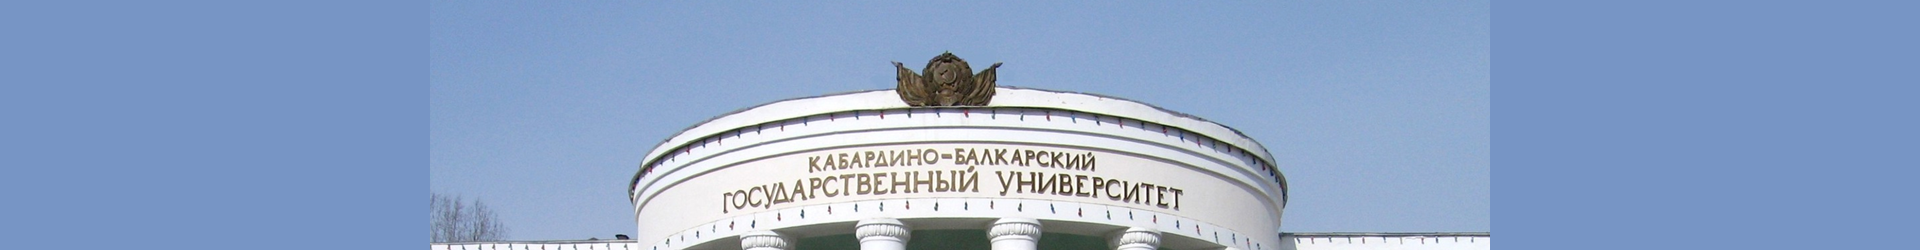
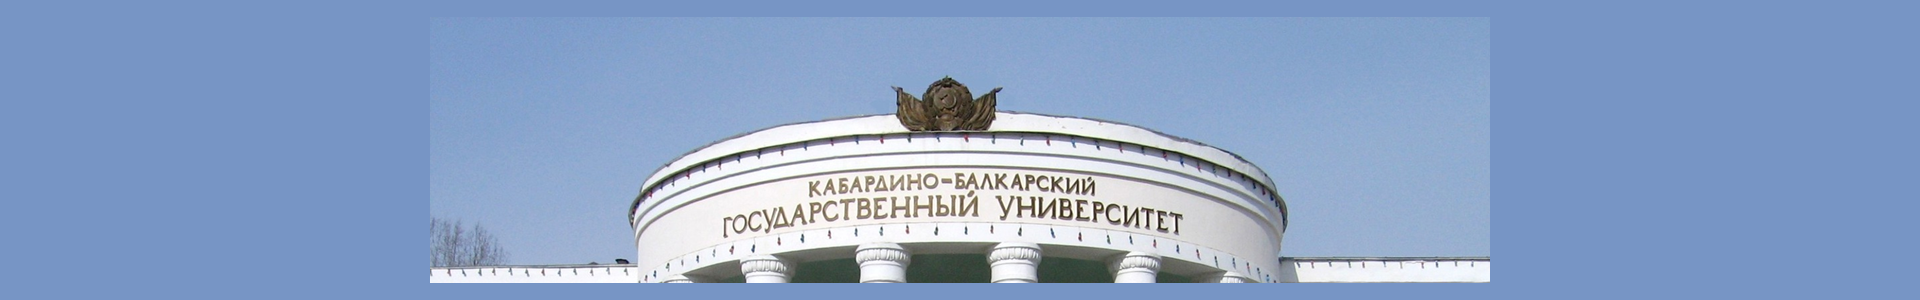
init10

Changed region(s): [[0.2188, 0.196, 0.7812, 1.0]]

diff --git a/проекты.html b/проекты.html
@@ -23,7 +23,12 @@
     <div class="art-shapes">
         <div class="art-object1623040845"></div>
 <div class="art-object1072346909"></div>
-
+<div class="art-textblock art-object1077306880">
+        <div class="art-object1077306880-text-container">
+        <div class="art-object1077306880-text"></div>
+    </div>
+    
+</div>
             </div>
 
 <h1 class="art-headline">
@@ -55,43 +60,50 @@
 <p><span style="font-size: 22px; color: #FEDCC2;">Проекты магистра 1 года обучения Шидугова&nbsp;Ислама.</span></p>
 <p><span style="font-size: 22px;">(-=1=-).&nbsp;Дальномер на Arduino UNO + HC-SR04 + TFT Display 1.8"</span></p>
 <div class="video-container">
- <span style="font-size: 22px;"><iframe width="560" height="315" src="https://www.youtube.com/embed/Qwj9HuhaCaI?wmode=transparent&amp;amp;wmode=transparent&amp;amp;wmode=transparent&amp;amp;wmode=transparent&amp;amp;wmode=transparent&amp;amp;wmode=transparent&amp;amp;wmode=transparent&amp;amp;wmode=transparent" frameborder="0" allow="accelerometer; autoplay; encrypted-media; gyroscope; picture-in-picture" allowfullscreen=""><span style="font-size: 22px;"><span style="font-size: 22px;">&amp;amp;lt;span style="font-size: 22px;"&amp;amp;gt;&amp;amp;lt;span style="font-size: 22px;"&amp;amp;gt;&amp;amp;lt;span style="font-size: 22px;"&amp;amp;gt;&amp;amp;amp;amp;amp;lt;span style="font-size: 22px;"&amp;amp;amp;amp;amp;gt;&amp;amp;amp;amp;amp;lt;span style="font-size: 22px;"&amp;amp;amp;amp;amp;gt;&amp;amp;amp;amp;amp;amp;amp;amp;lt;span style="font-size: 22px;"&amp;amp;amp;amp;amp;amp;amp;amp;gt;&amp;amp;amp;amp;amp;amp;amp;amp;amp;amp;amp;lt;span style="font-size: 22px;"&amp;amp;amp;amp;amp;amp;amp;amp;amp;amp;amp;gt;&amp;amp;amp;amp;amp;amp;amp;amp;amp;amp;amp;lt;span style="font-size: 22px;"&amp;amp;amp;amp;amp;amp;amp;amp;amp;amp;amp;gt;&amp;amp;amp;amp;amp;amp;amp;amp;amp;amp;amp;amp;amp;amp;lt;span style="font-size: 22px;"&amp;amp;amp;amp;amp;amp;amp;amp;amp;amp;amp;amp;amp;amp;gt;&amp;amp;amp;amp;amp;amp;amp;amp;amp;amp;amp;amp;amp;amp;lt;span style="font-size: 22px;"&amp;amp;amp;amp;amp;amp;amp;amp;amp;amp;amp;amp;amp;amp;gt;
-&amp;amp;amp;amp;amp;amp;amp;amp;amp;amp;amp;amp;amp;amp;lt;/span&amp;amp;amp;amp;amp;amp;amp;amp;amp;amp;amp;amp;amp;amp;gt;&amp;amp;amp;amp;amp;amp;amp;amp;amp;amp;amp;amp;amp;amp;lt;/span&amp;amp;amp;amp;amp;amp;amp;amp;amp;amp;amp;amp;amp;amp;gt;&amp;amp;amp;amp;amp;amp;amp;amp;amp;amp;amp;lt;/span&amp;amp;amp;amp;amp;amp;amp;amp;amp;amp;amp;gt;&amp;amp;amp;amp;amp;amp;amp;amp;amp;amp;amp;lt;/span&amp;amp;amp;amp;amp;amp;amp;amp;amp;amp;amp;gt;&amp;amp;amp;amp;amp;amp;amp;amp;lt;/span&amp;amp;amp;amp;amp;amp;amp;amp;gt;&amp;amp;amp;amp;amp;lt;/span&amp;amp;amp;amp;amp;gt;&amp;amp;amp;amp;amp;lt;/span&amp;amp;amp;amp;amp;gt;&amp;amp;lt;/span&amp;amp;gt;&amp;amp;lt;/span&amp;amp;gt;&amp;amp;lt;/span&amp;amp;gt;</span></span></iframe></span>
+ <span style="font-size: 22px;"><iframe width="560" height="315" src="https://www.youtube.com/embed/Qwj9HuhaCaI?wmode=transparent&amp;amp;wmode=transparent&amp;amp;wmode=transparent&amp;amp;wmode=transparent&amp;amp;wmode=transparent&amp;amp;wmode=transparent&amp;amp;wmode=transparent&amp;amp;wmode=transparent" frameborder="0" allow="accelerometer; autoplay; encrypted-media; gyroscope; picture-in-picture" allowfullscreen=""><span style="font-size: 22px;"><span style="font-size: 22px;"><span style="font-size: 22px;">&amp;amp;lt;span style="font-size: 22px;"&amp;amp;gt;&amp;amp;lt;span style="font-size: 22px;"&amp;amp;gt;&amp;amp;lt;span style="font-size: 22px;"&amp;amp;gt;&amp;amp;amp;amp;amp;lt;span style="font-size: 22px;"&amp;amp;amp;amp;amp;gt;&amp;amp;amp;amp;amp;lt;span style="font-size: 22px;"&amp;amp;amp;amp;amp;gt;&amp;amp;amp;amp;amp;amp;amp;amp;lt;span style="font-size: 22px;"&amp;amp;amp;amp;amp;amp;amp;amp;gt;&amp;amp;amp;amp;amp;amp;amp;amp;amp;amp;amp;lt;span style="font-size: 22px;"&amp;amp;amp;amp;amp;amp;amp;amp;amp;amp;amp;gt;&amp;amp;amp;amp;amp;amp;amp;amp;amp;amp;amp;lt;span style="font-size: 22px;"&amp;amp;amp;amp;amp;amp;amp;amp;amp;amp;amp;gt;&amp;amp;amp;amp;amp;amp;amp;amp;amp;amp;amp;amp;amp;amp;lt;span style="font-size: 22px;"&amp;amp;amp;amp;amp;amp;amp;amp;amp;amp;amp;amp;amp;amp;gt;&amp;amp;amp;amp;amp;amp;amp;amp;amp;amp;amp;amp;amp;amp;lt;span style="font-size: 22px;"&amp;amp;amp;amp;amp;amp;amp;amp;amp;amp;amp;amp;amp;amp;gt;
+&amp;amp;amp;amp;amp;amp;amp;amp;amp;amp;amp;amp;amp;amp;lt;/span&amp;amp;amp;amp;amp;amp;amp;amp;amp;amp;amp;amp;amp;amp;gt;&amp;amp;amp;amp;amp;amp;amp;amp;amp;amp;amp;amp;amp;amp;lt;/span&amp;amp;amp;amp;amp;amp;amp;amp;amp;amp;amp;amp;amp;amp;gt;&amp;amp;amp;amp;amp;amp;amp;amp;amp;amp;amp;lt;/span&amp;amp;amp;amp;amp;amp;amp;amp;amp;amp;amp;gt;&amp;amp;amp;amp;amp;amp;amp;amp;amp;amp;amp;lt;/span&amp;amp;amp;amp;amp;amp;amp;amp;amp;amp;amp;gt;&amp;amp;amp;amp;amp;amp;amp;amp;lt;/span&amp;amp;amp;amp;amp;amp;amp;amp;gt;&amp;amp;amp;amp;amp;lt;/span&amp;amp;amp;amp;amp;gt;&amp;amp;amp;amp;amp;lt;/span&amp;amp;amp;amp;amp;gt;&amp;amp;lt;/span&amp;amp;gt;&amp;amp;lt;/span&amp;amp;gt;&amp;amp;lt;/span&amp;amp;gt;</span></span></span></iframe></span>
 </div>
 <p><span style="font-size: 22px;">(-=2=-).&nbsp;Управление двигателями Arduino через смартфон</span></p>
 <div class="video-container">
- <span style="font-size: 22px;"><iframe width="560" height="315" src="https://www.youtube.com/embed/QHzLbfqxxg4?wmode=transparent&amp;amp;wmode=transparent&amp;amp;wmode=transparent&amp;amp;wmode=transparent&amp;amp;wmode=transparent&amp;amp;wmode=transparent&amp;amp;wmode=transparent&amp;amp;wmode=transparent" frameborder="0" allow="accelerometer; autoplay; encrypted-media; gyroscope; picture-in-picture" allowfullscreen=""><span style="font-size: 22px;"><span style="font-size: 22px;">&amp;amp;lt;span style="font-size: 22px;"&amp;amp;gt;&amp;amp;lt;span style="font-size: 22px;"&amp;amp;gt;&amp;amp;lt;span style="font-size: 22px;"&amp;amp;gt;&amp;amp;amp;amp;amp;lt;span style="font-size: 22px;"&amp;amp;amp;amp;amp;gt;&amp;amp;amp;amp;amp;lt;span style="font-size: 22px;"&amp;amp;amp;amp;amp;gt;&amp;amp;amp;amp;amp;amp;amp;amp;lt;span style="font-size: 22px;"&amp;amp;amp;amp;amp;amp;amp;amp;gt;&amp;amp;amp;amp;amp;amp;amp;amp;amp;amp;amp;lt;span style="font-size: 22px;"&amp;amp;amp;amp;amp;amp;amp;amp;amp;amp;amp;gt;&amp;amp;amp;amp;amp;amp;amp;amp;amp;amp;amp;lt;span style="font-size: 22px;"&amp;amp;amp;amp;amp;amp;amp;amp;amp;amp;amp;gt;&amp;amp;amp;amp;amp;amp;amp;amp;amp;amp;amp;amp;amp;amp;lt;span style="font-size: 22px;"&amp;amp;amp;amp;amp;amp;amp;amp;amp;amp;amp;amp;amp;amp;gt;&amp;amp;amp;amp;amp;amp;amp;amp;amp;amp;amp;amp;amp;amp;lt;span style="font-size: 22px;"&amp;amp;amp;amp;amp;amp;amp;amp;amp;amp;amp;amp;amp;amp;gt;
-&amp;amp;amp;amp;amp;amp;amp;amp;amp;amp;amp;amp;amp;amp;lt;/span&amp;amp;amp;amp;amp;amp;amp;amp;amp;amp;amp;amp;amp;amp;gt;&amp;amp;amp;amp;amp;amp;amp;amp;amp;amp;amp;amp;amp;amp;lt;/span&amp;amp;amp;amp;amp;amp;amp;amp;amp;amp;amp;amp;amp;amp;gt;&amp;amp;amp;amp;amp;amp;amp;amp;amp;amp;amp;lt;/span&amp;amp;amp;amp;amp;amp;amp;amp;amp;amp;amp;gt;&amp;amp;amp;amp;amp;amp;amp;amp;amp;amp;amp;lt;/span&amp;amp;amp;amp;amp;amp;amp;amp;amp;amp;amp;gt;&amp;amp;amp;amp;amp;amp;amp;amp;lt;/span&amp;amp;amp;amp;amp;amp;amp;amp;gt;&amp;amp;amp;amp;amp;lt;/span&amp;amp;amp;amp;amp;gt;&amp;amp;amp;amp;amp;lt;/span&amp;amp;amp;amp;amp;gt;&amp;amp;lt;/span&amp;amp;gt;&amp;amp;lt;/span&amp;amp;gt;&amp;amp;lt;/span&amp;amp;gt;</span></span></iframe></span>
+ <span style="font-size: 22px;"><iframe width="560" height="315" src="https://www.youtube.com/embed/QHzLbfqxxg4?wmode=transparent&amp;amp;wmode=transparent&amp;amp;wmode=transparent&amp;amp;wmode=transparent&amp;amp;wmode=transparent&amp;amp;wmode=transparent&amp;amp;wmode=transparent&amp;amp;wmode=transparent" frameborder="0" allow="accelerometer; autoplay; encrypted-media; gyroscope; picture-in-picture" allowfullscreen=""><span style="font-size: 22px;"><span style="font-size: 22px;"><span style="font-size: 22px;">&amp;amp;lt;span style="font-size: 22px;"&amp;amp;gt;&amp;amp;lt;span style="font-size: 22px;"&amp;amp;gt;&amp;amp;lt;span style="font-size: 22px;"&amp;amp;gt;&amp;amp;amp;amp;amp;lt;span style="font-size: 22px;"&amp;amp;amp;amp;amp;gt;&amp;amp;amp;amp;amp;lt;span style="font-size: 22px;"&amp;amp;amp;amp;amp;gt;&amp;amp;amp;amp;amp;amp;amp;amp;lt;span style="font-size: 22px;"&amp;amp;amp;amp;amp;amp;amp;amp;gt;&amp;amp;amp;amp;amp;amp;amp;amp;amp;amp;amp;lt;span style="font-size: 22px;"&amp;amp;amp;amp;amp;amp;amp;amp;amp;amp;amp;gt;&amp;amp;amp;amp;amp;amp;amp;amp;amp;amp;amp;lt;span style="font-size: 22px;"&amp;amp;amp;amp;amp;amp;amp;amp;amp;amp;amp;gt;&amp;amp;amp;amp;amp;amp;amp;amp;amp;amp;amp;amp;amp;amp;lt;span style="font-size: 22px;"&amp;amp;amp;amp;amp;amp;amp;amp;amp;amp;amp;amp;amp;amp;gt;&amp;amp;amp;amp;amp;amp;amp;amp;amp;amp;amp;amp;amp;amp;lt;span style="font-size: 22px;"&amp;amp;amp;amp;amp;amp;amp;amp;amp;amp;amp;amp;amp;amp;gt;
+&amp;amp;amp;amp;amp;amp;amp;amp;amp;amp;amp;amp;amp;amp;lt;/span&amp;amp;amp;amp;amp;amp;amp;amp;amp;amp;amp;amp;amp;amp;gt;&amp;amp;amp;amp;amp;amp;amp;amp;amp;amp;amp;amp;amp;amp;lt;/span&amp;amp;amp;amp;amp;amp;amp;amp;amp;amp;amp;amp;amp;amp;gt;&amp;amp;amp;amp;amp;amp;amp;amp;amp;amp;amp;lt;/span&amp;amp;amp;amp;amp;amp;amp;amp;amp;amp;amp;gt;&amp;amp;amp;amp;amp;amp;amp;amp;amp;amp;amp;lt;/span&amp;amp;amp;amp;amp;amp;amp;amp;amp;amp;amp;gt;&amp;amp;amp;amp;amp;amp;amp;amp;lt;/span&amp;amp;amp;amp;amp;amp;amp;amp;gt;&amp;amp;amp;amp;amp;lt;/span&amp;amp;amp;amp;amp;gt;&amp;amp;amp;amp;amp;lt;/span&amp;amp;amp;amp;amp;gt;&amp;amp;lt;/span&amp;amp;gt;&amp;amp;lt;/span&amp;amp;gt;&amp;amp;lt;/span&amp;amp;gt;</span></span></span></iframe></span>
 </div>
 <p><span style="font-size: 22px;">(-=3=-).&nbsp;Балансирующий робот на Arduino</span></p>
 <div class="video-container">
- <span style="font-size: 22px;"><iframe width="560" height="315" src="https://www.youtube.com/embed/K0JYyKJkjf4?wmode=transparent&amp;amp;wmode=transparent&amp;amp;wmode=transparent&amp;amp;wmode=transparent&amp;amp;wmode=transparent&amp;amp;wmode=transparent&amp;amp;wmode=transparent&amp;amp;wmode=transparent" frameborder="0" allow="accelerometer; autoplay; encrypted-media; gyroscope; picture-in-picture" allowfullscreen=""><span style="font-size: 22px;"><span style="font-size: 22px;">&amp;amp;lt;span style="font-size: 22px;"&amp;amp;gt;&amp;amp;lt;span style="font-size: 22px;"&amp;amp;gt;&amp;amp;lt;span style="font-size: 22px;"&amp;amp;gt;&amp;amp;amp;amp;amp;lt;span style="font-size: 22px;"&amp;amp;amp;amp;amp;gt;&amp;amp;amp;amp;amp;lt;span style="font-size: 22px;"&amp;amp;amp;amp;amp;gt;&amp;amp;amp;amp;amp;amp;amp;amp;lt;span style="font-size: 22px;"&amp;amp;amp;amp;amp;amp;amp;amp;gt;&amp;amp;amp;amp;amp;amp;amp;amp;amp;amp;amp;lt;span style="font-size: 22px;"&amp;amp;amp;amp;amp;amp;amp;amp;amp;amp;amp;gt;&amp;amp;amp;amp;amp;amp;amp;amp;amp;amp;amp;lt;span style="font-size: 22px;"&amp;amp;amp;amp;amp;amp;amp;amp;amp;amp;amp;gt;&amp;amp;amp;amp;amp;amp;amp;amp;amp;amp;amp;amp;amp;amp;lt;span style="font-size: 22px;"&amp;amp;amp;amp;amp;amp;amp;amp;amp;amp;amp;amp;amp;amp;gt;&amp;amp;amp;amp;amp;amp;amp;amp;amp;amp;amp;amp;amp;amp;lt;span style="font-size: 22px;"&amp;amp;amp;amp;amp;amp;amp;amp;amp;amp;amp;amp;amp;amp;gt;
-&amp;amp;amp;amp;amp;amp;amp;amp;amp;amp;amp;amp;amp;amp;lt;/span&amp;amp;amp;amp;amp;amp;amp;amp;amp;amp;amp;amp;amp;amp;gt;&amp;amp;amp;amp;amp;amp;amp;amp;amp;amp;amp;amp;amp;amp;lt;/span&amp;amp;amp;amp;amp;amp;amp;amp;amp;amp;amp;amp;amp;amp;gt;&amp;amp;amp;amp;amp;amp;amp;amp;amp;amp;amp;lt;/span&amp;amp;amp;amp;amp;amp;amp;amp;amp;amp;amp;gt;&amp;amp;amp;amp;amp;amp;amp;amp;amp;amp;amp;lt;/span&amp;amp;amp;amp;amp;amp;amp;amp;amp;amp;amp;gt;&amp;amp;amp;amp;amp;amp;amp;amp;lt;/span&amp;amp;amp;amp;amp;amp;amp;amp;gt;&amp;amp;amp;amp;amp;lt;/span&amp;amp;amp;amp;amp;gt;&amp;amp;amp;amp;amp;lt;/span&amp;amp;amp;amp;amp;gt;&amp;amp;lt;/span&amp;amp;gt;&amp;amp;lt;/span&amp;amp;gt;&amp;amp;lt;/span&amp;amp;gt;</span></span></iframe></span>
+ <span style="font-size: 22px;"><iframe width="560" height="315" src="https://www.youtube.com/embed/K0JYyKJkjf4?wmode=transparent&amp;amp;wmode=transparent&amp;amp;wmode=transparent&amp;amp;wmode=transparent&amp;amp;wmode=transparent&amp;amp;wmode=transparent&amp;amp;wmode=transparent&amp;amp;wmode=transparent" frameborder="0" allow="accelerometer; autoplay; encrypted-media; gyroscope; picture-in-picture" allowfullscreen=""><span style="font-size: 22px;"><span style="font-size: 22px;"><span style="font-size: 22px;">&amp;amp;lt;span style="font-size: 22px;"&amp;amp;gt;&amp;amp;lt;span style="font-size: 22px;"&amp;amp;gt;&amp;amp;lt;span style="font-size: 22px;"&amp;amp;gt;&amp;amp;amp;amp;amp;lt;span style="font-size: 22px;"&amp;amp;amp;amp;amp;gt;&amp;amp;amp;amp;amp;lt;span style="font-size: 22px;"&amp;amp;amp;amp;amp;gt;&amp;amp;amp;amp;amp;amp;amp;amp;lt;span style="font-size: 22px;"&amp;amp;amp;amp;amp;amp;amp;amp;gt;&amp;amp;amp;amp;amp;amp;amp;amp;amp;amp;amp;lt;span style="font-size: 22px;"&amp;amp;amp;amp;amp;amp;amp;amp;amp;amp;amp;gt;&amp;amp;amp;amp;amp;amp;amp;amp;amp;amp;amp;lt;span style="font-size: 22px;"&amp;amp;amp;amp;amp;amp;amp;amp;amp;amp;amp;gt;&amp;amp;amp;amp;amp;amp;amp;amp;amp;amp;amp;amp;amp;amp;lt;span style="font-size: 22px;"&amp;amp;amp;amp;amp;amp;amp;amp;amp;amp;amp;amp;amp;amp;gt;&amp;amp;amp;amp;amp;amp;amp;amp;amp;amp;amp;amp;amp;amp;lt;span style="font-size: 22px;"&amp;amp;amp;amp;amp;amp;amp;amp;amp;amp;amp;amp;amp;amp;gt;
+&amp;amp;amp;amp;amp;amp;amp;amp;amp;amp;amp;amp;amp;amp;lt;/span&amp;amp;amp;amp;amp;amp;amp;amp;amp;amp;amp;amp;amp;amp;gt;&amp;amp;amp;amp;amp;amp;amp;amp;amp;amp;amp;amp;amp;amp;lt;/span&amp;amp;amp;amp;amp;amp;amp;amp;amp;amp;amp;amp;amp;amp;gt;&amp;amp;amp;amp;amp;amp;amp;amp;amp;amp;amp;lt;/span&amp;amp;amp;amp;amp;amp;amp;amp;amp;amp;amp;gt;&amp;amp;amp;amp;amp;amp;amp;amp;amp;amp;amp;lt;/span&amp;amp;amp;amp;amp;amp;amp;amp;amp;amp;amp;gt;&amp;amp;amp;amp;amp;amp;amp;amp;lt;/span&amp;amp;amp;amp;amp;amp;amp;amp;gt;&amp;amp;amp;amp;amp;lt;/span&amp;amp;amp;amp;amp;gt;&amp;amp;amp;amp;amp;lt;/span&amp;amp;amp;amp;amp;gt;&amp;amp;lt;/span&amp;amp;gt;&amp;amp;lt;/span&amp;amp;gt;&amp;amp;lt;/span&amp;amp;gt;</span></span></span></iframe></span>
 </div>
 <p><span style="font-size: 22px;"><br></span></p>
 <p><span style="font-size: 22px; color: #FEDCC2;">Проекты магистра 1 года обучения Атласкирова&nbsp;Азамата.<br></span></p>
 <p><span style="font-size: 22px;">(-=4=-).&nbsp;<a href="https://youtu.be/L_wYam1rDqw" style="font-size: 22px;">Подключение датчика газа MQ2 к Arduino</a></span></p>
 <div class="video-container">
- <span style="font-size: 22px;"><iframe width="560" height="315" src="https://www.youtube.com/embed/L_wYam1rDqw?wmode=transparent&amp;amp;wmode=transparent&amp;amp;wmode=transparent&amp;amp;wmode=transparent&amp;amp;wmode=transparent&amp;amp;wmode=transparent&amp;amp;wmode=transparent&amp;amp;wmode=transparent" frameborder="0" allow="accelerometer; autoplay; encrypted-media; gyroscope; picture-in-picture" allowfullscreen=""><span style="font-size: 22px;"><span style="font-size: 22px;">&amp;amp;lt;span style="font-size: 22px;"&amp;amp;gt;&amp;amp;lt;span style="font-size: 22px;"&amp;amp;gt;&amp;amp;lt;span style="font-size: 22px;"&amp;amp;gt;&amp;amp;amp;amp;amp;lt;span style="font-size: 22px;"&amp;amp;amp;amp;amp;gt;&amp;amp;amp;amp;amp;lt;span style="font-size: 22px;"&amp;amp;amp;amp;amp;gt;&amp;amp;amp;amp;amp;amp;amp;amp;lt;span style="font-size: 22px;"&amp;amp;amp;amp;amp;amp;amp;amp;gt;&amp;amp;amp;amp;amp;amp;amp;amp;amp;amp;amp;lt;span style="font-size: 22px;"&amp;amp;amp;amp;amp;amp;amp;amp;amp;amp;amp;gt;&amp;amp;amp;amp;amp;amp;amp;amp;amp;amp;amp;lt;span style="font-size: 22px;"&amp;amp;amp;amp;amp;amp;amp;amp;amp;amp;amp;gt;&amp;amp;amp;amp;amp;amp;amp;amp;amp;amp;amp;amp;amp;amp;lt;span style="font-size: 22px;"&amp;amp;amp;amp;amp;amp;amp;amp;amp;amp;amp;amp;amp;amp;gt;&amp;amp;amp;amp;amp;amp;amp;amp;amp;amp;amp;amp;amp;amp;lt;span style="font-size: 22px;"&amp;amp;amp;amp;amp;amp;amp;amp;amp;amp;amp;amp;amp;amp;gt;
-&amp;amp;amp;amp;amp;amp;amp;amp;amp;amp;amp;amp;amp;amp;lt;/span&amp;amp;amp;amp;amp;amp;amp;amp;amp;amp;amp;amp;amp;amp;gt;&amp;amp;amp;amp;amp;amp;amp;amp;amp;amp;amp;amp;amp;amp;lt;/span&amp;amp;amp;amp;amp;amp;amp;amp;amp;amp;amp;amp;amp;amp;gt;&amp;amp;amp;amp;amp;amp;amp;amp;amp;amp;amp;lt;/span&amp;amp;amp;amp;amp;amp;amp;amp;amp;amp;amp;gt;&amp;amp;amp;amp;amp;amp;amp;amp;amp;amp;amp;lt;/span&amp;amp;amp;amp;amp;amp;amp;amp;amp;amp;amp;gt;&amp;amp;amp;amp;amp;amp;amp;amp;lt;/span&amp;amp;amp;amp;amp;amp;amp;amp;gt;&amp;amp;amp;amp;amp;lt;/span&amp;amp;amp;amp;amp;gt;&amp;amp;amp;amp;amp;lt;/span&amp;amp;amp;amp;amp;gt;&amp;amp;lt;/span&amp;amp;gt;&amp;amp;lt;/span&amp;amp;gt;&amp;amp;lt;/span&amp;amp;gt;</span></span></iframe></span>
+ <span style="font-size: 22px;"><iframe width="560" height="315" src="https://www.youtube.com/embed/L_wYam1rDqw?wmode=transparent&amp;amp;wmode=transparent&amp;amp;wmode=transparent&amp;amp;wmode=transparent&amp;amp;wmode=transparent&amp;amp;wmode=transparent&amp;amp;wmode=transparent&amp;amp;wmode=transparent" frameborder="0" allow="accelerometer; autoplay; encrypted-media; gyroscope; picture-in-picture" allowfullscreen=""><span style="font-size: 22px;"><span style="font-size: 22px;"><span style="font-size: 22px;">&amp;amp;lt;span style="font-size: 22px;"&amp;amp;gt;&amp;amp;lt;span style="font-size: 22px;"&amp;amp;gt;&amp;amp;lt;span style="font-size: 22px;"&amp;amp;gt;&amp;amp;amp;amp;amp;lt;span style="font-size: 22px;"&amp;amp;amp;amp;amp;gt;&amp;amp;amp;amp;amp;lt;span style="font-size: 22px;"&amp;amp;amp;amp;amp;gt;&amp;amp;amp;amp;amp;amp;amp;amp;lt;span style="font-size: 22px;"&amp;amp;amp;amp;amp;amp;amp;amp;gt;&amp;amp;amp;amp;amp;amp;amp;amp;amp;amp;amp;lt;span style="font-size: 22px;"&amp;amp;amp;amp;amp;amp;amp;amp;amp;amp;amp;gt;&amp;amp;amp;amp;amp;amp;amp;amp;amp;amp;amp;lt;span style="font-size: 22px;"&amp;amp;amp;amp;amp;amp;amp;amp;amp;amp;amp;gt;&amp;amp;amp;amp;amp;amp;amp;amp;amp;amp;amp;amp;amp;amp;lt;span style="font-size: 22px;"&amp;amp;amp;amp;amp;amp;amp;amp;amp;amp;amp;amp;amp;amp;gt;&amp;amp;amp;amp;amp;amp;amp;amp;amp;amp;amp;amp;amp;amp;lt;span style="font-size: 22px;"&amp;amp;amp;amp;amp;amp;amp;amp;amp;amp;amp;amp;amp;amp;gt;
+&amp;amp;amp;amp;amp;amp;amp;amp;amp;amp;amp;amp;amp;amp;lt;/span&amp;amp;amp;amp;amp;amp;amp;amp;amp;amp;amp;amp;amp;amp;gt;&amp;amp;amp;amp;amp;amp;amp;amp;amp;amp;amp;amp;amp;amp;lt;/span&amp;amp;amp;amp;amp;amp;amp;amp;amp;amp;amp;amp;amp;amp;gt;&amp;amp;amp;amp;amp;amp;amp;amp;amp;amp;amp;lt;/span&amp;amp;amp;amp;amp;amp;amp;amp;amp;amp;amp;gt;&amp;amp;amp;amp;amp;amp;amp;amp;amp;amp;amp;lt;/span&amp;amp;amp;amp;amp;amp;amp;amp;amp;amp;amp;gt;&amp;amp;amp;amp;amp;amp;amp;amp;lt;/span&amp;amp;amp;amp;amp;amp;amp;amp;gt;&amp;amp;amp;amp;amp;lt;/span&amp;amp;amp;amp;amp;gt;&amp;amp;amp;amp;amp;lt;/span&amp;amp;amp;amp;amp;gt;&amp;amp;lt;/span&amp;amp;gt;&amp;amp;lt;/span&amp;amp;gt;&amp;amp;lt;/span&amp;amp;gt;</span></span></span></iframe></span>
 </div>
 <p><span style="font-size: 22px;">(-=5=-).&nbsp;<a href="https://youtu.be/BkO3VOc19Po" style="font-size: 22px;">Подключение к Arduino датчика температуры/влажности и вентилятора</a></span></p>
 <div class="video-container">
- <span style="font-size: 22px;"><iframe width="560" height="315" src="https://www.youtube.com/embed/BkO3VOc19Po?wmode=transparent&amp;amp;wmode=transparent&amp;amp;wmode=transparent&amp;amp;wmode=transparent&amp;amp;wmode=transparent&amp;amp;wmode=transparent&amp;amp;wmode=transparent&amp;amp;wmode=transparent" frameborder="0" allow="accelerometer; autoplay; encrypted-media; gyroscope; picture-in-picture" allowfullscreen=""><span style="font-size: 22px;"><span style="font-size: 22px;">&amp;amp;lt;span style="font-size: 22px;"&amp;amp;gt;&amp;amp;lt;span style="font-size: 22px;"&amp;amp;gt;&amp;amp;lt;span style="font-size: 22px;"&amp;amp;gt;&amp;amp;amp;amp;amp;lt;span style="font-size: 22px;"&amp;amp;amp;amp;amp;gt;&amp;amp;amp;amp;amp;lt;span style="font-size: 22px;"&amp;amp;amp;amp;amp;gt;&amp;amp;amp;amp;amp;amp;amp;amp;lt;span style="font-size: 22px;"&amp;amp;amp;amp;amp;amp;amp;amp;gt;&amp;amp;amp;amp;amp;amp;amp;amp;amp;amp;amp;lt;span style="font-size: 22px;"&amp;amp;amp;amp;amp;amp;amp;amp;amp;amp;amp;gt;&amp;amp;amp;amp;amp;amp;amp;amp;amp;amp;amp;lt;span style="font-size: 22px;"&amp;amp;amp;amp;amp;amp;amp;amp;amp;amp;amp;gt;&amp;amp;amp;amp;amp;amp;amp;amp;amp;amp;amp;amp;amp;amp;lt;span style="font-size: 22px;"&amp;amp;amp;amp;amp;amp;amp;amp;amp;amp;amp;amp;amp;amp;gt;&amp;amp;amp;amp;amp;amp;amp;amp;amp;amp;amp;amp;amp;amp;lt;span style="font-size: 22px;"&amp;amp;amp;amp;amp;amp;amp;amp;amp;amp;amp;amp;amp;amp;gt;
-&amp;amp;amp;amp;amp;amp;amp;amp;amp;amp;amp;amp;amp;amp;lt;/span&amp;amp;amp;amp;amp;amp;amp;amp;amp;amp;amp;amp;amp;amp;gt;&amp;amp;amp;amp;amp;amp;amp;amp;amp;amp;amp;amp;amp;amp;lt;/span&amp;amp;amp;amp;amp;amp;amp;amp;amp;amp;amp;amp;amp;amp;gt;&amp;amp;amp;amp;amp;amp;amp;amp;amp;amp;amp;lt;/span&amp;amp;amp;amp;amp;amp;amp;amp;amp;amp;amp;gt;&amp;amp;amp;amp;amp;amp;amp;amp;amp;amp;amp;lt;/span&amp;amp;amp;amp;amp;amp;amp;amp;amp;amp;amp;gt;&amp;amp;amp;amp;amp;amp;amp;amp;lt;/span&amp;amp;amp;amp;amp;amp;amp;amp;gt;&amp;amp;amp;amp;amp;lt;/span&amp;amp;amp;amp;amp;gt;&amp;amp;amp;amp;amp;lt;/span&amp;amp;amp;amp;amp;gt;&amp;amp;lt;/span&amp;amp;gt;&amp;amp;lt;/span&amp;amp;gt;&amp;amp;lt;/span&amp;amp;gt;</span></span></iframe></span>
+ <span style="font-size: 22px;"><iframe width="560" height="315" src="https://www.youtube.com/embed/BkO3VOc19Po?wmode=transparent&amp;amp;wmode=transparent&amp;amp;wmode=transparent&amp;amp;wmode=transparent&amp;amp;wmode=transparent&amp;amp;wmode=transparent&amp;amp;wmode=transparent&amp;amp;wmode=transparent" frameborder="0" allow="accelerometer; autoplay; encrypted-media; gyroscope; picture-in-picture" allowfullscreen=""><span style="font-size: 22px;"><span style="font-size: 22px;"><span style="font-size: 22px;">&amp;amp;lt;span style="font-size: 22px;"&amp;amp;gt;&amp;amp;lt;span style="font-size: 22px;"&amp;amp;gt;&amp;amp;lt;span style="font-size: 22px;"&amp;amp;gt;&amp;amp;amp;amp;amp;lt;span style="font-size: 22px;"&amp;amp;amp;amp;amp;gt;&amp;amp;amp;amp;amp;lt;span style="font-size: 22px;"&amp;amp;amp;amp;amp;gt;&amp;amp;amp;amp;amp;amp;amp;amp;lt;span style="font-size: 22px;"&amp;amp;amp;amp;amp;amp;amp;amp;gt;&amp;amp;amp;amp;amp;amp;amp;amp;amp;amp;amp;lt;span style="font-size: 22px;"&amp;amp;amp;amp;amp;amp;amp;amp;amp;amp;amp;gt;&amp;amp;amp;amp;amp;amp;amp;amp;amp;amp;amp;lt;span style="font-size: 22px;"&amp;amp;amp;amp;amp;amp;amp;amp;amp;amp;amp;gt;&amp;amp;amp;amp;amp;amp;amp;amp;amp;amp;amp;amp;amp;amp;lt;span style="font-size: 22px;"&amp;amp;amp;amp;amp;amp;amp;amp;amp;amp;amp;amp;amp;amp;gt;&amp;amp;amp;amp;amp;amp;amp;amp;amp;amp;amp;amp;amp;amp;lt;span style="font-size: 22px;"&amp;amp;amp;amp;amp;amp;amp;amp;amp;amp;amp;amp;amp;amp;gt;
+&amp;amp;amp;amp;amp;amp;amp;amp;amp;amp;amp;amp;amp;amp;lt;/span&amp;amp;amp;amp;amp;amp;amp;amp;amp;amp;amp;amp;amp;amp;gt;&amp;amp;amp;amp;amp;amp;amp;amp;amp;amp;amp;amp;amp;amp;lt;/span&amp;amp;amp;amp;amp;amp;amp;amp;amp;amp;amp;amp;amp;amp;gt;&amp;amp;amp;amp;amp;amp;amp;amp;amp;amp;amp;lt;/span&amp;amp;amp;amp;amp;amp;amp;amp;amp;amp;amp;gt;&amp;amp;amp;amp;amp;amp;amp;amp;amp;amp;amp;lt;/span&amp;amp;amp;amp;amp;amp;amp;amp;amp;amp;amp;gt;&amp;amp;amp;amp;amp;amp;amp;amp;lt;/span&amp;amp;amp;amp;amp;amp;amp;amp;gt;&amp;amp;amp;amp;amp;lt;/span&amp;amp;amp;amp;amp;gt;&amp;amp;amp;amp;amp;lt;/span&amp;amp;amp;amp;amp;gt;&amp;amp;lt;/span&amp;amp;gt;&amp;amp;lt;/span&amp;amp;gt;&amp;amp;lt;/span&amp;amp;gt;</span></span></span></iframe></span>
 </div>
 <p><span style="font-size: 22px;"><br></span></p>
-<p><span style="font-size: 22px; color: #FEDCC2;">Проекты бакалавра 2 курса&nbsp;Герандокова Айтека.</span><span style="font-size: 22px;"><br></span></p><p><span style="font-size: 22px;">(-=6=-). Сигнализатор затопления на базе arduino uno + water sensor&amp;зуммер<br></span></p>
+<p><span style="font-size: 22px; color: #FEDCC2;">Проекты бакалавра 2 курса&nbsp;Герандокова Айтека.</span><span style="font-size: 22px;"><br></span></p>
+<p><span style="font-size: 22px;">(-=6=-). Сигнализатор затопления на базе arduino uno + water sensor&amp;зуммер<br></span></p>
 <div class="video-container">
- <span style="font-size: 22px;"><iframe width="560" height="315" src="https://www.youtube.com/embed/qCTsjyGPOfk?wmode=transparent&amp;amp;wmode=transparent&amp;amp;wmode=transparent&amp;amp;wmode=transparent&amp;amp;wmode=transparent&amp;amp;wmode=transparent&amp;amp;wmode=transparent&amp;amp;wmode=transparent" frameborder="0" allow="accelerometer; autoplay; encrypted-media; gyroscope; picture-in-picture" allowfullscreen=""><span style="font-size: 22px;"><span style="font-size: 22px;">&amp;amp;lt;span style="font-size: 22px;"&amp;amp;gt;&amp;amp;lt;span style="font-size: 22px;"&amp;amp;gt;&amp;amp;lt;span style="font-size: 22px;"&amp;amp;gt;&amp;amp;amp;amp;amp;lt;span style="font-size: 22px;"&amp;amp;amp;amp;amp;gt;&amp;amp;amp;amp;amp;lt;span style="font-size: 22px;"&amp;amp;amp;amp;amp;gt;&amp;amp;amp;amp;amp;amp;amp;amp;lt;span style="font-size: 22px;"&amp;amp;amp;amp;amp;amp;amp;amp;gt;&amp;amp;amp;amp;amp;amp;amp;amp;amp;amp;amp;lt;span style="font-size: 22px;"&amp;amp;amp;amp;amp;amp;amp;amp;amp;amp;amp;gt;&amp;amp;amp;amp;amp;amp;amp;amp;amp;amp;amp;lt;span style="font-size: 22px;"&amp;amp;amp;amp;amp;amp;amp;amp;amp;amp;amp;gt;&amp;amp;amp;amp;amp;amp;amp;amp;amp;amp;amp;amp;amp;amp;lt;span style="font-size: 22px;"&amp;amp;amp;amp;amp;amp;amp;amp;amp;amp;amp;amp;amp;amp;gt;&amp;amp;amp;amp;amp;amp;amp;amp;amp;amp;amp;amp;amp;amp;lt;span style="font-size: 22px;"&amp;amp;amp;amp;amp;amp;amp;amp;amp;amp;amp;amp;amp;amp;gt;
-&amp;amp;amp;amp;amp;amp;amp;amp;amp;amp;amp;amp;amp;amp;lt;/span&amp;amp;amp;amp;amp;amp;amp;amp;amp;amp;amp;amp;amp;amp;gt;&amp;amp;amp;amp;amp;amp;amp;amp;amp;amp;amp;amp;amp;amp;lt;/span&amp;amp;amp;amp;amp;amp;amp;amp;amp;amp;amp;amp;amp;amp;gt;&amp;amp;amp;amp;amp;amp;amp;amp;amp;amp;amp;lt;/span&amp;amp;amp;amp;amp;amp;amp;amp;amp;amp;amp;gt;&amp;amp;amp;amp;amp;amp;amp;amp;amp;amp;amp;lt;/span&amp;amp;amp;amp;amp;amp;amp;amp;amp;amp;amp;gt;&amp;amp;amp;amp;amp;amp;amp;amp;lt;/span&amp;amp;amp;amp;amp;amp;amp;amp;gt;&amp;amp;amp;amp;amp;lt;/span&amp;amp;amp;amp;amp;gt;&amp;amp;amp;amp;amp;lt;/span&amp;amp;amp;amp;amp;gt;&amp;amp;lt;/span&amp;amp;gt;&amp;amp;lt;/span&amp;amp;gt;&amp;amp;lt;/span&amp;amp;gt;</span></span></iframe></span>
+ <span style="font-size: 22px;"><iframe width="560" height="315" src="https://www.youtube.com/embed/qCTsjyGPOfk?wmode=transparent&amp;amp;wmode=transparent&amp;amp;wmode=transparent&amp;amp;wmode=transparent&amp;amp;wmode=transparent&amp;amp;wmode=transparent&amp;amp;wmode=transparent&amp;amp;wmode=transparent" frameborder="0" allow="accelerometer; autoplay; encrypted-media; gyroscope; picture-in-picture" allowfullscreen=""><span style="font-size: 22px;"><span style="font-size: 22px;"><span style="font-size: 22px;">&amp;amp;lt;span style="font-size: 22px;"&amp;amp;gt;&amp;amp;lt;span style="font-size: 22px;"&amp;amp;gt;&amp;amp;lt;span style="font-size: 22px;"&amp;amp;gt;&amp;amp;amp;amp;amp;lt;span style="font-size: 22px;"&amp;amp;amp;amp;amp;gt;&amp;amp;amp;amp;amp;lt;span style="font-size: 22px;"&amp;amp;amp;amp;amp;gt;&amp;amp;amp;amp;amp;amp;amp;amp;lt;span style="font-size: 22px;"&amp;amp;amp;amp;amp;amp;amp;amp;gt;&amp;amp;amp;amp;amp;amp;amp;amp;amp;amp;amp;lt;span style="font-size: 22px;"&amp;amp;amp;amp;amp;amp;amp;amp;amp;amp;amp;gt;&amp;amp;amp;amp;amp;amp;amp;amp;amp;amp;amp;lt;span style="font-size: 22px;"&amp;amp;amp;amp;amp;amp;amp;amp;amp;amp;amp;gt;&amp;amp;amp;amp;amp;amp;amp;amp;amp;amp;amp;amp;amp;amp;lt;span style="font-size: 22px;"&amp;amp;amp;amp;amp;amp;amp;amp;amp;amp;amp;amp;amp;amp;gt;&amp;amp;amp;amp;amp;amp;amp;amp;amp;amp;amp;amp;amp;amp;lt;span style="font-size: 22px;"&amp;amp;amp;amp;amp;amp;amp;amp;amp;amp;amp;amp;amp;amp;gt;
+&amp;amp;amp;amp;amp;amp;amp;amp;amp;amp;amp;amp;amp;amp;lt;/span&amp;amp;amp;amp;amp;amp;amp;amp;amp;amp;amp;amp;amp;amp;gt;&amp;amp;amp;amp;amp;amp;amp;amp;amp;amp;amp;amp;amp;amp;lt;/span&amp;amp;amp;amp;amp;amp;amp;amp;amp;amp;amp;amp;amp;amp;gt;&amp;amp;amp;amp;amp;amp;amp;amp;amp;amp;amp;lt;/span&amp;amp;amp;amp;amp;amp;amp;amp;amp;amp;amp;gt;&amp;amp;amp;amp;amp;amp;amp;amp;amp;amp;amp;lt;/span&amp;amp;amp;amp;amp;amp;amp;amp;amp;amp;amp;gt;&amp;amp;amp;amp;amp;amp;amp;amp;lt;/span&amp;amp;amp;amp;amp;amp;amp;amp;gt;&amp;amp;amp;amp;amp;lt;/span&amp;amp;amp;amp;amp;gt;&amp;amp;amp;amp;amp;lt;/span&amp;amp;amp;amp;amp;gt;&amp;amp;lt;/span&amp;amp;gt;&amp;amp;lt;/span&amp;amp;gt;&amp;amp;lt;/span&amp;amp;gt;</span></span></span></iframe></span>
 </div>
 <p><span style="font-size: 22px;"><br></span></p><p><span style="font-size: 22px; color: #FEDCC2;">Проекты магистра 1 года обучения&nbsp;Закаева&nbsp;</span><span style="font-size: 22px; color: #FEDCC2;">Инала.</span></p><p><span style="font-size: 22px;">(-=7=-).&nbsp;<a href="https://cloud.mail.ru/public/2FXG/2oPQVqQeq" style="font-size: 22px;">Лабораторная работа Датчик движения</a>&nbsp;<br></span></p><p><span style="font-size: 22px;">(-=8=-)</span><span style="font-size: 22px;">.&nbsp;<a href="https://cloud.mail.ru/public/34ts/4xkCoVim6" style="font-size: 22px;">Лабораторная работа Фоторезистор</a><br></span></p><p><span style="font-size: 22px;">(-=9=-)</span><span style="font-size: 22px;">.&nbsp;<a href="https://cloud.mail.ru/public/3rbA/2gcWMWmRx" style="font-size: 22px;">Лабораторная работа Шаговый двигатель 28BYJ-48</a></span></p><p><span style="font-size: 22px;"><br></span></p>
 <p><span style="font-size: 22px; color: #FEDCC2;">Проекты бакалавра 3 курса&nbsp;Саутича&nbsp;Владислава.</span></p>
 <p><span style="font-size: 22px;">(-=10=-)</span><span style="font-size: 22px;">. Сервомотор и переключатель</span></p>
-<p><a href="https://cloud.mail.ru/public/5HwG/4HtHWMu3y" style="font-size: 22px;">Сервомотор</a></p>
+<div class="video-container">
+ <span style="font-size: 22px;"><iframe width="560" height="315" src="https://www.youtube.com/embed/7n93fsEINKc?wmode=transparent&amp;amp;wmode=transparent&amp;amp;wmode=transparent&amp;amp;wmode=transparent&amp;amp;wmode=transparent&amp;amp;wmode=transparent&amp;amp;wmode=transparent&amp;amp;wmode=transparent" frameborder="0" allow="accelerometer; autoplay; encrypted-media; gyroscope; picture-in-picture" allowfullscreen=""><span style="font-size: 22px;"><span style="font-size: 22px;"><span style="font-size: 22px;">&amp;amp;lt;span style="font-size: 22px;"&amp;amp;gt;&amp;amp;lt;span style="font-size: 22px;"&amp;amp;gt;&amp;amp;lt;span style="font-size: 22px;"&amp;amp;gt;&amp;amp;amp;amp;amp;lt;span style="font-size: 22px;"&amp;amp;amp;amp;amp;gt;&amp;amp;amp;amp;amp;lt;span style="font-size: 22px;"&amp;amp;amp;amp;amp;gt;&amp;amp;amp;amp;amp;amp;amp;amp;lt;span style="font-size: 22px;"&amp;amp;amp;amp;amp;amp;amp;amp;gt;&amp;amp;amp;amp;amp;amp;amp;amp;amp;amp;amp;lt;span style="font-size: 22px;"&amp;amp;amp;amp;amp;amp;amp;amp;amp;amp;amp;gt;&amp;amp;amp;amp;amp;amp;amp;amp;amp;amp;amp;lt;span style="font-size: 22px;"&amp;amp;amp;amp;amp;amp;amp;amp;amp;amp;amp;gt;&amp;amp;amp;amp;amp;amp;amp;amp;amp;amp;amp;amp;amp;amp;lt;span style="font-size: 22px;"&amp;amp;amp;amp;amp;amp;amp;amp;amp;amp;amp;amp;amp;amp;gt;&amp;amp;amp;amp;amp;amp;amp;amp;amp;amp;amp;amp;amp;amp;lt;span style="font-size: 22px;"&amp;amp;amp;amp;amp;amp;amp;amp;amp;amp;amp;amp;amp;amp;gt;
+&amp;amp;amp;amp;amp;amp;amp;amp;amp;amp;amp;amp;amp;amp;lt;/span&amp;amp;amp;amp;amp;amp;amp;amp;amp;amp;amp;amp;amp;amp;gt;&amp;amp;amp;amp;amp;amp;amp;amp;amp;amp;amp;amp;amp;amp;lt;/span&amp;amp;amp;amp;amp;amp;amp;amp;amp;amp;amp;amp;amp;amp;gt;&amp;amp;amp;amp;amp;amp;amp;amp;amp;amp;amp;lt;/span&amp;amp;amp;amp;amp;amp;amp;amp;amp;amp;amp;gt;&amp;amp;amp;amp;amp;amp;amp;amp;amp;amp;amp;lt;/span&amp;amp;amp;amp;amp;amp;amp;amp;amp;amp;amp;gt;&amp;amp;amp;amp;amp;amp;amp;amp;lt;/span&amp;amp;amp;amp;amp;amp;amp;amp;gt;&amp;amp;amp;amp;amp;lt;/span&amp;amp;amp;amp;amp;gt;&amp;amp;amp;amp;amp;lt;/span&amp;amp;amp;amp;amp;gt;&amp;amp;lt;/span&amp;amp;gt;&amp;amp;lt;/span&amp;amp;gt;&amp;amp;lt;/span&amp;amp;gt;</span></span></span></iframe></span>
+</div>
 <p><span style="font-size: 22px;">(-=11=-)</span><span style="font-size: 22px;">. Микроконтроллер и датчик температуры</span></p>
-<p><a href="https://cloud.mail.ru/public/us9S/4i7t5dXMw" style="font-size: 22px;">Датчик температуры</a></p>
+<div class="video-container">
+ <span style="font-size: 22px;"><iframe width="560" height="315" src="https://www.youtube.com/embed/c0ikIiqR0iM?wmode=transparent&amp;amp;wmode=transparent&amp;amp;wmode=transparent&amp;amp;wmode=transparent&amp;amp;wmode=transparent&amp;amp;wmode=transparent&amp;amp;wmode=transparent&amp;amp;wmode=transparent" frameborder="0" allow="accelerometer; autoplay; encrypted-media; gyroscope; picture-in-picture" allowfullscreen=""><span style="font-size: 22px;"><span style="font-size: 22px;"><span style="font-size: 22px;">&amp;amp;lt;span style="font-size: 22px;"&amp;amp;gt;&amp;amp;lt;span style="font-size: 22px;"&amp;amp;gt;&amp;amp;lt;span style="font-size: 22px;"&amp;amp;gt;&amp;amp;amp;amp;amp;lt;span style="font-size: 22px;"&amp;amp;amp;amp;amp;gt;&amp;amp;amp;amp;amp;lt;span style="font-size: 22px;"&amp;amp;amp;amp;amp;gt;&amp;amp;amp;amp;amp;amp;amp;amp;lt;span style="font-size: 22px;"&amp;amp;amp;amp;amp;amp;amp;amp;gt;&amp;amp;amp;amp;amp;amp;amp;amp;amp;amp;amp;lt;span style="font-size: 22px;"&amp;amp;amp;amp;amp;amp;amp;amp;amp;amp;amp;gt;&amp;amp;amp;amp;amp;amp;amp;amp;amp;amp;amp;lt;span style="font-size: 22px;"&amp;amp;amp;amp;amp;amp;amp;amp;amp;amp;amp;gt;&amp;amp;amp;amp;amp;amp;amp;amp;amp;amp;amp;amp;amp;amp;lt;span style="font-size: 22px;"&amp;amp;amp;amp;amp;amp;amp;amp;amp;amp;amp;amp;amp;amp;gt;&amp;amp;amp;amp;amp;amp;amp;amp;amp;amp;amp;amp;amp;amp;lt;span style="font-size: 22px;"&amp;amp;amp;amp;amp;amp;amp;amp;amp;amp;amp;amp;amp;amp;gt;
+&amp;amp;amp;amp;amp;amp;amp;amp;amp;amp;amp;amp;amp;amp;lt;/span&amp;amp;amp;amp;amp;amp;amp;amp;amp;amp;amp;amp;amp;amp;gt;&amp;amp;amp;amp;amp;amp;amp;amp;amp;amp;amp;amp;amp;amp;lt;/span&amp;amp;amp;amp;amp;amp;amp;amp;amp;amp;amp;amp;amp;amp;gt;&amp;amp;amp;amp;amp;amp;amp;amp;amp;amp;amp;lt;/span&amp;amp;amp;amp;amp;amp;amp;amp;amp;amp;amp;gt;&amp;amp;amp;amp;amp;amp;amp;amp;amp;amp;amp;lt;/span&amp;amp;amp;amp;amp;amp;amp;amp;amp;amp;amp;gt;&amp;amp;amp;amp;amp;amp;amp;amp;lt;/span&amp;amp;amp;amp;amp;amp;amp;amp;gt;&amp;amp;amp;amp;amp;lt;/span&amp;amp;amp;amp;amp;gt;&amp;amp;amp;amp;amp;lt;/span&amp;amp;amp;amp;amp;gt;&amp;amp;lt;/span&amp;amp;gt;&amp;amp;lt;/span&amp;amp;gt;&amp;amp;lt;/span&amp;amp;gt;</span></span></span></iframe></span>
+</div>
 <p><span style="font-size: 22px;"><br></span></p>
 <p><span style="font-size: 22px; color: #FEDCC2;">Проекты магистра 1 года обучения&nbsp;Карповой Жанны</span><span style="font-size: 22px; color: #FEDCC2;">.</span><br></p>
 <p><span style="font-size: 22px;">(-=12=-)</span><span style="font-size: 22px;">.&nbsp;<a href="https://cloud.mail.ru/public/SVSw/2c2KsBjP7" style="font-size: 22px;">Обучающий проект «Управление сервоприводом»</a></span></p>

diff --git a/style.css b/style.css
@@ -394,7 +394,7 @@ li p, .art-postcontent li p, .art-blockcontent li p
     left: 100%;
     margin-left: -118px;
     position: absolute;
-    top: 10px;
+    top: 18px;
     width: 179px;
     height: 179px;
     background-image: url('images/object1623040845.png');
@@ -412,7 +412,7 @@ li p, .art-postcontent li p, .art-blockcontent li p
     left: 0%;
     margin-left: -63px;
     position: absolute;
-    top: 11px;
+    top: 19px;
     width: 182px;
     height: 182px;
     background-image: url('images/object1072346909.png');
@@ -424,14 +424,119 @@ li p, .art-postcontent li p, .art-blockcontent li p
 .default-responsive .art-object1072346909
 {
   display: none;
-}.art-headline
+}.art-object1077306880 h1, 
+.art-object1077306880 h2, 
+.art-object1077306880 h3, 
+.art-object1077306880 h4, 
+.art-object1077306880 h5, 
+.art-object1077306880 h6, 
+.art-object1077306880 p, 
+.art-object1077306880 a, 
+.art-object1077306880 ul, 
+.art-object1077306880 ol, 
+.art-object1077306880 li
+{
+  line-height: 100%;
+}
+
+.art-object1077306880
+{  
+  position: absolute;
+  top: 244px;
+  left: 50%;
+  margin-left: -960px !important;
+  -webkit-transform: rotate(0deg);
+  -moz-transform: rotate(0deg);
+  -o-transform: rotate(0deg);
+  -ms-transform: rotate(0deg);
+  transform: rotate(0deg);
+    overflow: hidden;
+      background-image: url('images/object1077306880.png');
+  background-position: 0px 0px;
+  background-repeat: no-repeat;
+    z-index: 3;
+  width: 1920px;
+  height: 56px;
+}
+
+.default-responsive .art-object1077306880
+{
+    background-image: none;
+  }
+
+.art-object1077306880-text-container 
+{
+    display: table;
+}
+
+.art-object1077306880-text
+{
+  display: table-cell;
+  outline-style: none;
+  padding: 0px 0px !important;
+  height: 56px;
+  width: 1920px;  
+word-wrap: break-word;
+}
+
+.default-responsive .art-object1077306880-text 
+{
+    height: auto;
+}
+
+.art-object1077306880-text,
+.art-object1077306880-text a.art-rss-tag-icon,
+.art-object1077306880-text a.art-facebook-tag-icon,
+.art-object1077306880-text a.art-twitter-tag-icon,
+.art-object1077306880-text a.art-tumblr-tag-icon,
+.art-object1077306880-text a.art-pinterest-tag-icon,
+.art-object1077306880-text a.art-vimeo-tag-icon,
+.art-object1077306880-text a.art-youtube-tag-icon,
+.art-object1077306880-text a.art-linkedin-tag-icon
+{
+font-size: 30px;
+font-family: Verdana, Geneva, Arial, Helvetica, Sans-Serif;
+text-align: left;
+vertical-align: middle;
+  color: #787878 !important;
+}
+
+.art-object1077306880-text a.art-rss-tag-icon,
+.art-object1077306880-text a.art-facebook-tag-icon,
+.art-object1077306880-text a.art-twitter-tag-icon,
+.art-object1077306880-text a.art-tumblr-tag-icon,
+.art-object1077306880-text a.art-pinterest-tag-icon,
+.art-object1077306880-text a.art-vimeo-tag-icon,
+.art-object1077306880-text a.art-youtube-tag-icon,
+.art-object1077306880-text a.art-linkedin-tag-icon
+{
+    width: 100%;
+}
+
+.default-responsive .art-object1077306880-text a.art-rss-tag-icon,
+.default-responsive .art-object1077306880-text a.art-facebook-tag-icon,
+.default-responsive .art-object1077306880-text a.art-twitter-tag-icon,
+.default-responsive .art-object1077306880-text a.art-tumblr-tag-icon,
+.default-responsive .art-object1077306880-text a.art-pinterest-tag-icon,
+.default-responsive .art-object1077306880-text a.art-vimeo-tag-icon,
+.default-responsive .art-object1077306880-text a.art-youtube-tag-icon,
+.default-responsive .art-object1077306880-text a.art-linkedin-tag-icon
+{
+    width: auto;
+}
+
+.art-textblock ul > li
+{
+    background-position-y: 8px !important;
+}
+.art-headline
 {
   display: inline-block;
   position: absolute;
   min-width: 50px;
-  top: 199px;
-  left: 55.12%;
-  margin-left: -426px !important;
+  top: 247px;
+  left: 54.33%;
+  margin-left: -419px !important;
   line-height: 100%;
   -webkit-transform: rotate(0deg);
   -moz-transform: rotate(0deg);
@@ -463,7 +568,7 @@ text-shadow: 1px 0px 0px rgb(23, 23, 23), -1px 0px 0px rgb(23, 23, 23), 0px -1px
   display: inline-block;
   position: absolute;
   min-width: 50px;
-  top: 229px;
+  top: 278px;
   left: 50.85%;
   line-height: 100%;
   margin-left: -337px !important;
@@ -503,7 +608,7 @@ text-shadow: 1px 0px 0px rgb(23, 23, 23), -1px 0px 0px rgb(23, 23, 23), 0px -1px
    border:1px solid #162746;
    margin:0 auto;
    background-repeat: no-repeat;
-   height: 250px;
+   height: 300px;
    position:relative;
    background-image: url('images/header.png');
    background-position: center top;

diff --git a/script.js b/script.js
@@ -1217,13 +1217,29 @@ resizeData['object1072346909'] = {
    height: 182,
    autoWidth: false};
 
+resizeData['object1077306880'] = {
+   responsive: [
+                  { left: 0.5, top: 1, visible: true }, 
+                  { left: 0.5, top: 1, visible: true }, 
+                  { left: 0.5, top: 1, visible: true }, 
+                  { left: 0.5, top: 1, visible: true }, 
+                  { left: 0.5, top: 1, visible: true }, 
+               ],
+   area: {
+       x: 0,
+       y: 0
+   },
+   width: 1920,
+   height: 56,
+   autoWidth: false};
+
 resizeData['headline'] = {
    responsive: [
-                  { left: 0.55, top: 0.87, visible: true }, 
-                  { left: 0.55, top: 0.87, visible: true }, 
-                  { left: 0.55, top: 0.87, visible: true }, 
-                  { left: 0.55, top: 0.87, visible: true }, 
-                  { left: 0.55, top: 0.87, visible: true }, 
+                  { left: 0.54, top: 0.89, visible: true }, 
+                  { left: 0.54, top: 0.89, visible: true }, 
+                  { left: 0.54, top: 0.89, visible: true }, 
+                  { left: 0.54, top: 0.89, visible: true }, 
+                  { left: 0.54, top: 0.89, visible: true }, 
                ],
    area: {
        x: 0,

diff --git a/index.html b/index.html
@@ -31,7 +31,12 @@
     <div class="art-shapes">
         <div class="art-object1623040845"></div>
 <div class="art-object1072346909"></div>
-
+<div class="art-textblock art-object1077306880">
+        <div class="art-object1077306880-text-container">
+        <div class="art-object1077306880-text"></div>
+    </div>
+    
+</div>
             </div>
 
 <h1 class="art-headline">

diff --git a/главная.html b/главная.html
@@ -31,7 +31,12 @@
     <div class="art-shapes">
         <div class="art-object1623040845"></div>
 <div class="art-object1072346909"></div>
-
+<div class="art-textblock art-object1077306880">
+        <div class="art-object1077306880-text-container">
+        <div class="art-object1077306880-text"></div>
+    </div>
+    
+</div>
             </div>
 
 <h1 class="art-headline">

diff --git a/голосование.html b/голосование.html
@@ -23,7 +23,12 @@
     <div class="art-shapes">
         <div class="art-object1623040845"></div>
 <div class="art-object1072346909"></div>
-
+<div class="art-textblock art-object1077306880">
+        <div class="art-object1077306880-text-container">
+        <div class="art-object1077306880-text"></div>
+    </div>
+    
+</div>
             </div>
 
 <h1 class="art-headline">
